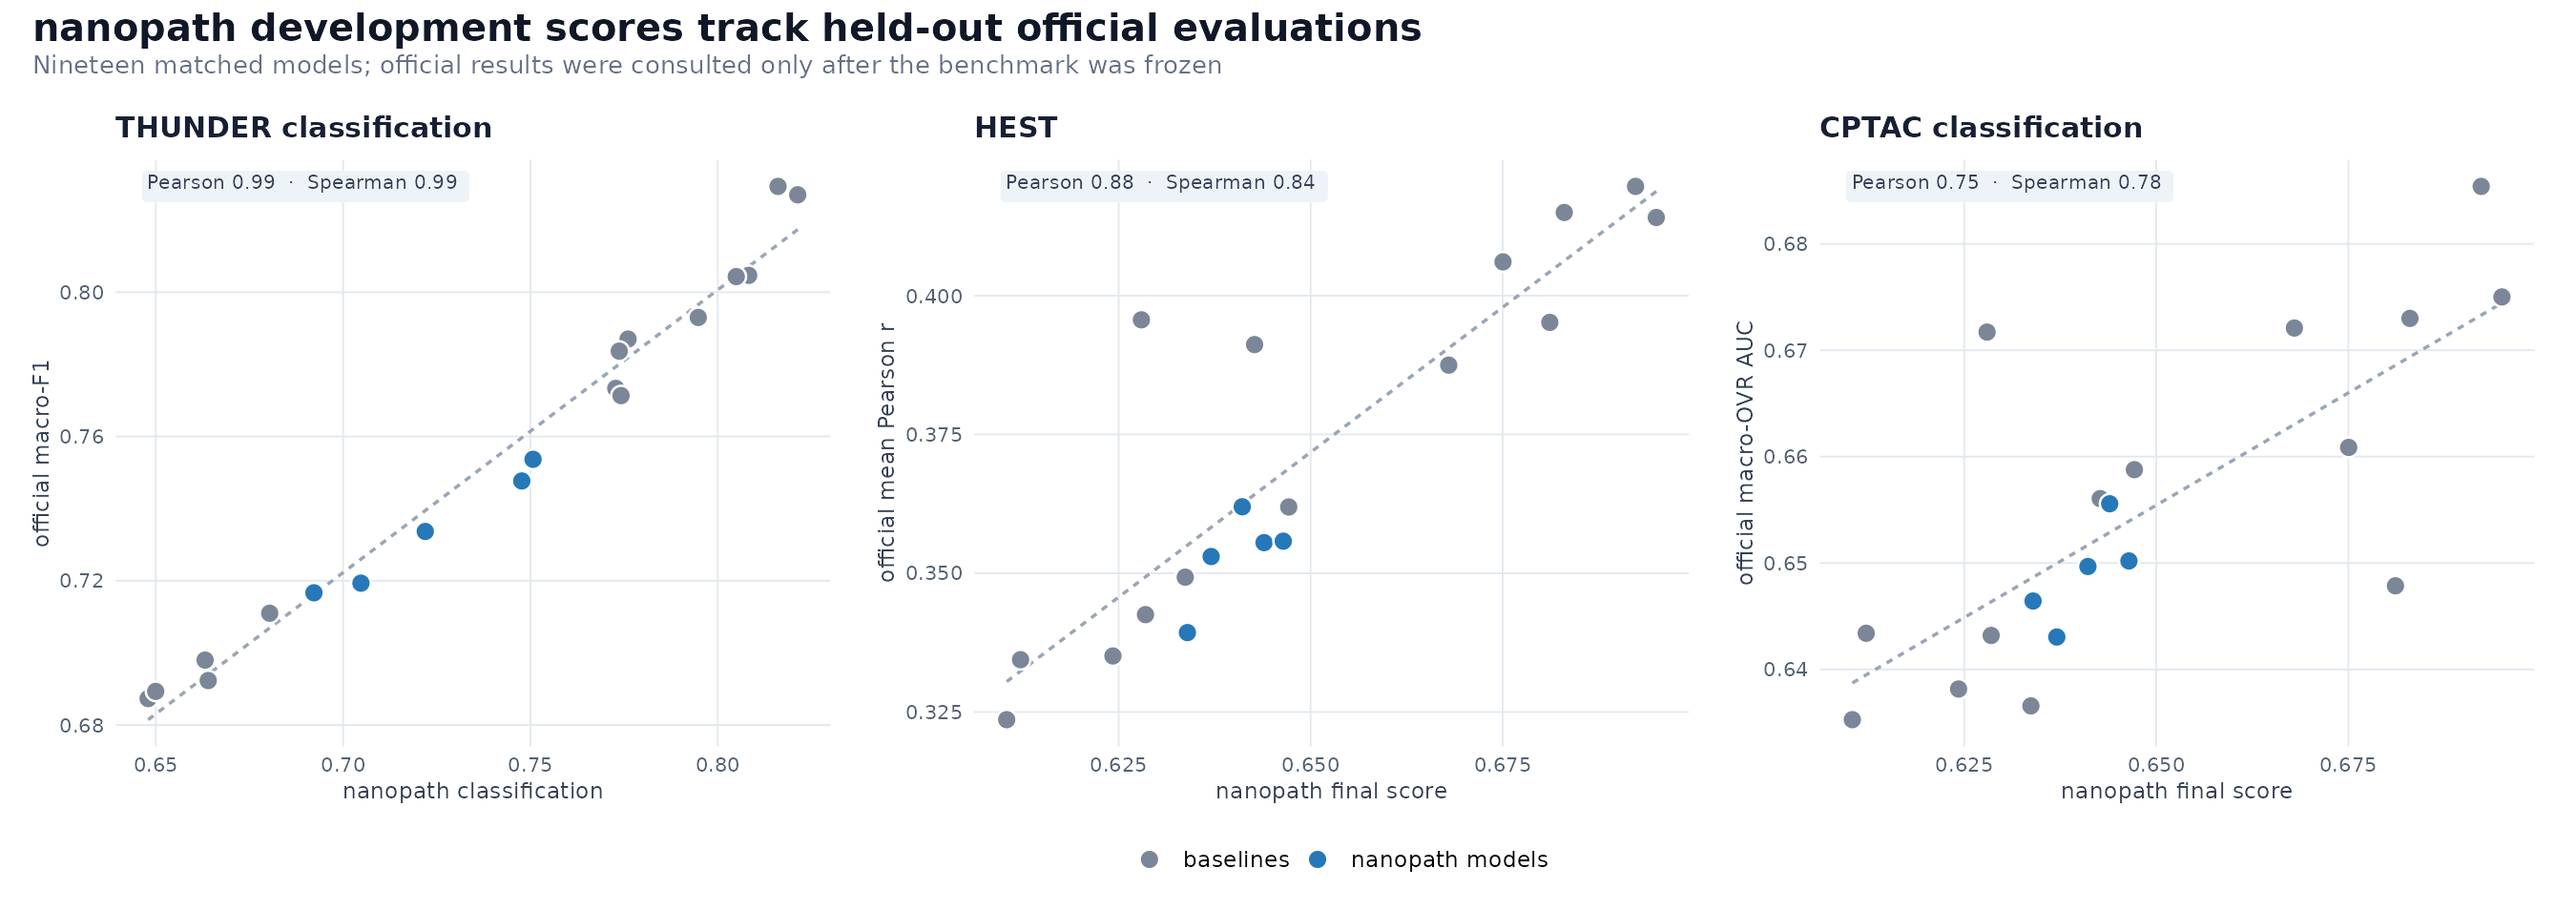
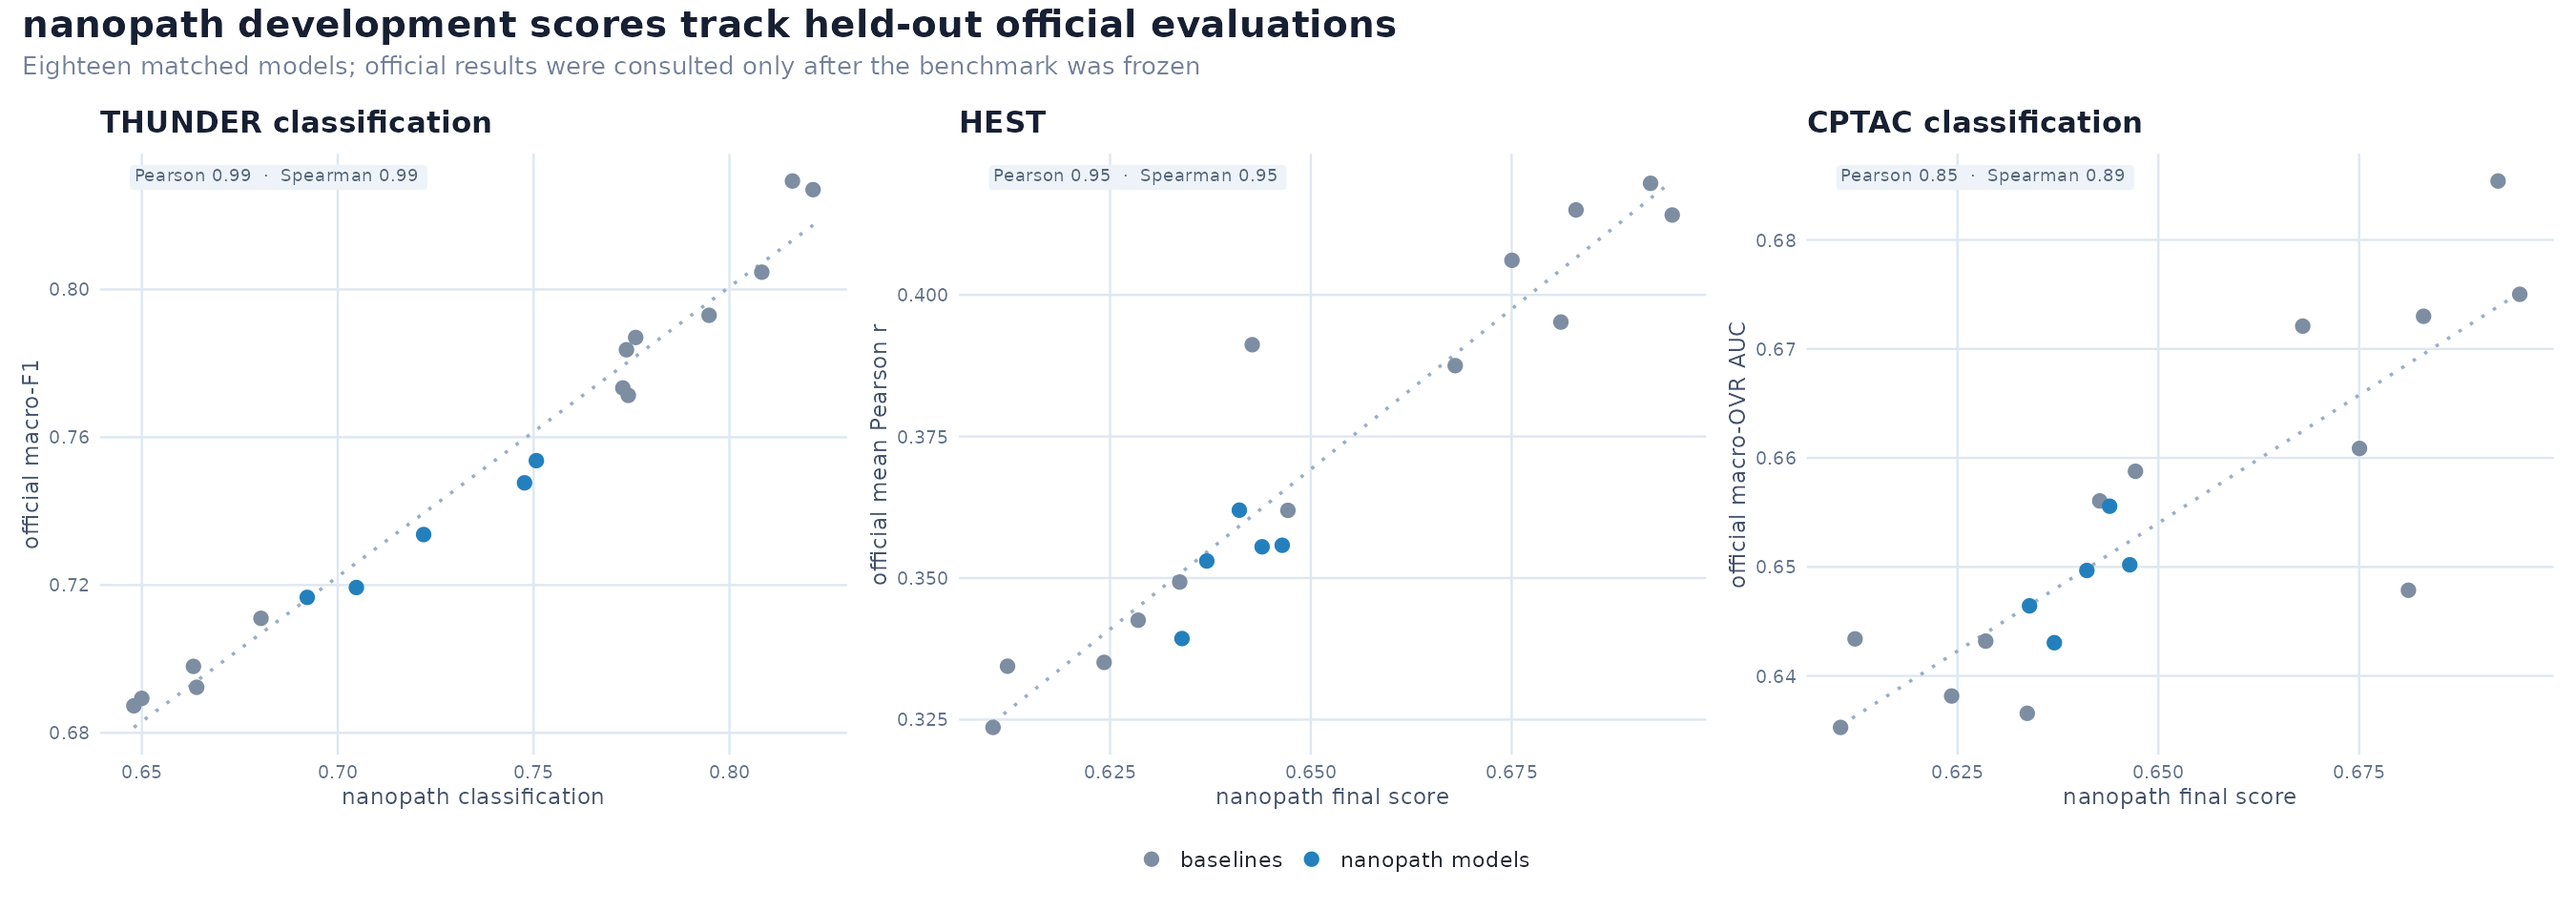
Remove EXAONE-Path baseline

diff --git a/benchmarking/validation.md b/benchmarking/validation.md
@@ -129,30 +129,27 @@ the pinned harness; it yields 0.719 Pearson and 0.818 all-pair concordance.
 The final score never places a studied nanopath checkpoint above GigaPath or
 H-Optimus-0 when the existing official composite places it below that baseline.
 
-An expanded 19-model table adds DINOv2-S/B/L/G, Kaiko-S/16, GigaPath-Flash, and
-EXAONE-Path-2.5-B:
+An expanded 18-model table adds DINOv2-S/B/L/G, Kaiko-S/16, and GigaPath-Flash:
 
 | Comparison | Pearson | Spearman | All-pair concordance | Cross-family concordance |
 |---|---:|---:|---:|---:|
-| Classification / THUNDER, 19 models | 0.988 | 0.991 | 0.977 | 1.000 |
-| Segmentation / THUNDER, 17 matched results | 0.586 | 0.798 | 0.844 | 0.900 |
-| Final score / HEST, 19 models | 0.878 | 0.837 | — | — |
-| Final score / CPTAC classification, 19 models | 0.752 | 0.782 | — | — |
+| Classification / THUNDER, 18 models | 0.988 | 0.990 | 0.974 | 1.000 |
+| Segmentation / THUNDER, 16 matched results | 0.831 | 0.761 | 0.832 | 0.891 |
+| Final score / HEST, 18 models | 0.951 | 0.946 | — | — |
+| Final score / CPTAC classification, 18 models | 0.854 | 0.893 | — | — |
 
-The lower expanded segmentation Pearson is driven chiefly by an EXAONE score-
-magnitude miss; removing that row raises Pearson to 0.831. DINOv2-S and
-DINOv2-G segmentation are omitted because only different-size published DINO
-proxies were available. These exclusions are fixed by result identity, not
-model performance.
+DINOv2-S and DINOv2-G segmentation are omitted because only different-size
+published DINO proxies were available. These exclusions are fixed by result
+identity, not model performance.
 
 The exact comparison input is
 [proxy-fidelity data](proxy_fidelity_v2.csv). The original 12 rows use the
 assembled fixed result, which combines PanNuke with both SegPath tasks. This
 is important: their retained non-segmentation artifact paths happen to contain
 intermediate two-SegPath metrics and must not be reopened as if those partial
-runs were the final score. The seven added rows use their completed fixed
+runs were the final score. The six added rows use their completed fixed
 suite results. Empty DINOv2-S/G segmentation cells prevent different-size
-published proxies from silently entering the 17-model statistic.
+published proxies from silently entering the 16-model statistic.
 
 ## Random-feature null audit
 
@@ -180,9 +177,8 @@ All trained or pretrained reference final scores in
 [the proxy-fidelity data](proxy_fidelity_v2.csv) exceed the largest random
 final score by at least 0.073. Classification, mutation, and robustness provide
 clear separation. The segmentation null is numerically high because
-background and spatial priors earn F1. Every listed trained reference except
-EXAONE is at least 0.036 above the random maximum; EXAONE's 0.368 is well below
-it, consistent with the score-magnitude miss in the official comparison.
+background and spatial priors earn F1. Every listed trained reference is at
+least 0.036 above the random maximum.
 
 Progression does **not** pass a clean random-feature interpretation: randomized
 features average 0.668 AUC and outperform multiple trained references. Survival

diff --git a/README.md b/README.md
@@ -72,10 +72,9 @@ W&B can run online or offline, but set that up before submitting a noninteractiv
 | 8 | OpenMidnight | OpenMidnight ViT-G/14-reg | 0.6427 | 0.6640 | 0.6306 | 0.6748 | 0.5829 | 0.6058 | 0.8534 |
 | 9 | Kaiko-S/16 | Kaiko pathology ViT-S/16 | 0.6337 | 0.7737 | 0.6060 | 0.5963 | 0.5539 | 0.5907 | 0.8151 |
 | 10 | DINOv2-G/14 | Meta DINOv2-G/14-reg | 0.6285 | 0.6804 | 0.5753 | 0.5928 | 0.6038 | 0.6288 | 0.8617 |
-| 11 | EXAONE-Path-2.5-B | LG AI Research EXAONE-Path-2.5-B/14 | 0.6280 | 0.8049 | 0.3677 | 0.6367 | 0.6458 | 0.6107 | 0.9091 |
-| 12 | DINOv2-L/14 | Meta DINOv2-L/14-reg | 0.6243 | 0.6632 | 0.5667 | 0.6298 | 0.6005 | 0.6009 | 0.8530 |
-| 13 | DINOv2-B/14 | Meta DINOv2-B/14-reg | 0.6122 | 0.6500 | 0.5691 | 0.5753 | 0.6062 | 0.6015 | 0.8371 |
-| 14 | DINOv2-S/14 | Meta DINOv2-S/14-reg | 0.6104 | 0.6480 | 0.5665 | 0.5364 | 0.6202 | 0.6220 | 0.8353 |
+| 11 | DINOv2-L/14 | Meta DINOv2-L/14-reg | 0.6243 | 0.6632 | 0.5667 | 0.6298 | 0.6005 | 0.6009 | 0.8530 |
+| 12 | DINOv2-B/14 | Meta DINOv2-B/14-reg | 0.6122 | 0.6500 | 0.5691 | 0.5753 | 0.6062 | 0.6015 | 0.8371 |
+| 13 | DINOv2-S/14 | Meta DINOv2-S/14-reg | 0.6104 | 0.6480 | 0.5665 | 0.5364 | 0.6202 | 0.6220 | 0.8353 |
 
 Across the promotion set of five nanopath models and seven principal
 baselines, classification has 0.987
@@ -90,15 +89,14 @@ and 0.818 all-pair concordance. The final score has 0.943 cross-family concordan
 with the existing official composite and never ranks a nanopath checkpoint
 above GigaPath or H-optimus-0 when that composite ranks it below the baseline.
 
-The expanded 19-model comparison adds four DINOv2 sizes, Kaiko-S/16,
-GigaPath-Flash, and EXAONE-Path-2.5-B. Classification remains faithful to
-official THUNDER (0.988 Pearson, 0.991 Spearman, 0.977 all-pair, and 1.000
-cross-family concordance). Among the 17 models with a matched completed or
-same-checkpoint published THUNDER segmentation result, segmentation has 0.586
-Pearson, 0.798 Spearman, 0.844 all-pair, and 0.900 cross-family concordance. The
-lower Pearson is chiefly a score-magnitude miss for EXAONE; excluding EXAONE
-raises it to 0.831. Final score has 0.878 Pearson / 0.837 Spearman with HEST and
-0.752 / 0.782 with CPTAC classification across all 19 models. These values use
+The expanded 18-model comparison adds four DINOv2 sizes, Kaiko-S/16, and
+GigaPath-Flash. Classification remains faithful to official THUNDER (0.988
+Pearson, 0.990 Spearman, 0.974 all-pair, and 1.000 cross-family concordance).
+Among the 16 models with a matched completed or same-checkpoint published
+THUNDER segmentation result, segmentation has 0.831 Pearson, 0.761 Spearman,
+0.832 all-pair, and 0.891 cross-family concordance. Final score has 0.951
+Pearson / 0.946 Spearman with HEST and 0.854 / 0.893 with CPTAC classification
+across all 18 models. These values use
 the assembled fixed three-task score for every row; intermediate two-SegPath
 result files are not treated as final scores. Official-suite results are
 post-freeze validation only, and their test samples do not enter the nanopath

diff --git a/benchmarking/README.md b/benchmarking/README.md
@@ -115,7 +115,7 @@ and null-model evidence.
 | [`surgen.json`](surgen.json) | SurGen fold-0 development-pool slide labels |
 | [`leopard_bcr.json`](leopard_bcr.json) | LEOPARD public-training cohort and fixed folds |
 | [`cptac_pda_os.json`](cptac_pda_os.json) | CPTAC-PDA fold-0 development-pool survival labels and fixed folds |
-| [Proxy-fidelity data](proxy_fidelity_v2.csv) | Frozen 12- and 19-model proxy/official comparison values |
+| [Proxy-fidelity data](proxy_fidelity_v2.csv) | Frozen 12- and 18-model proxy/official comparison values |
 | [Random-feature audit](random_dinov2_s_v2.csv) | Ten-seed exact-suite randomized-backbone audit |
 | [classification.md](classification.md) | Dataset provenance, sampling, head math, and THUNDER deviations |
 | [segmentation.md](segmentation.md) | Source boundary, decoder, loss, metric, and PanNuke caveat |
